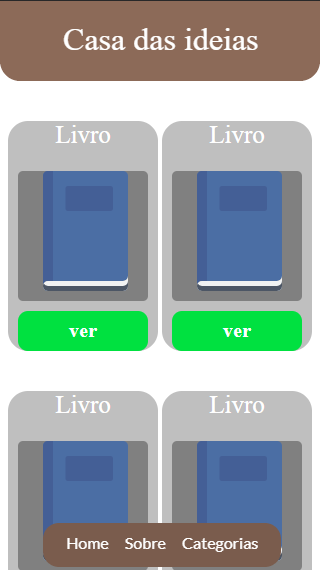
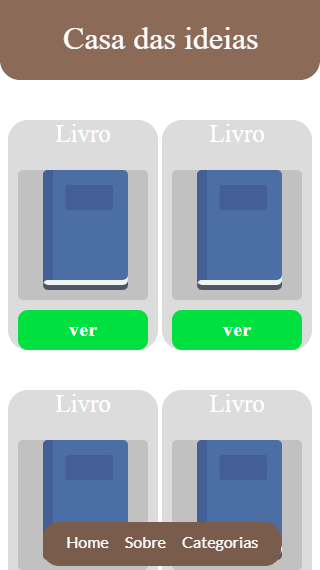
pg2 update

diff --git a/pg-2/style.css b/pg-2/style.css
@@ -216,14 +216,14 @@ body {
   }
 
   .item {
-    background-color: rgba(128, 128, 128, 0.5);
+    background-color: rgba(128, 128, 128, 0.275);
     border-radius: 20px;
     display: inline-block;
     
     width: 150px;
   }
   .item-img {
-    background-color: gray;
+    background-color: rgba(128, 128, 128, 0.302);
     border-radius: 5px;
     width: 130px;
     height: 130px;
